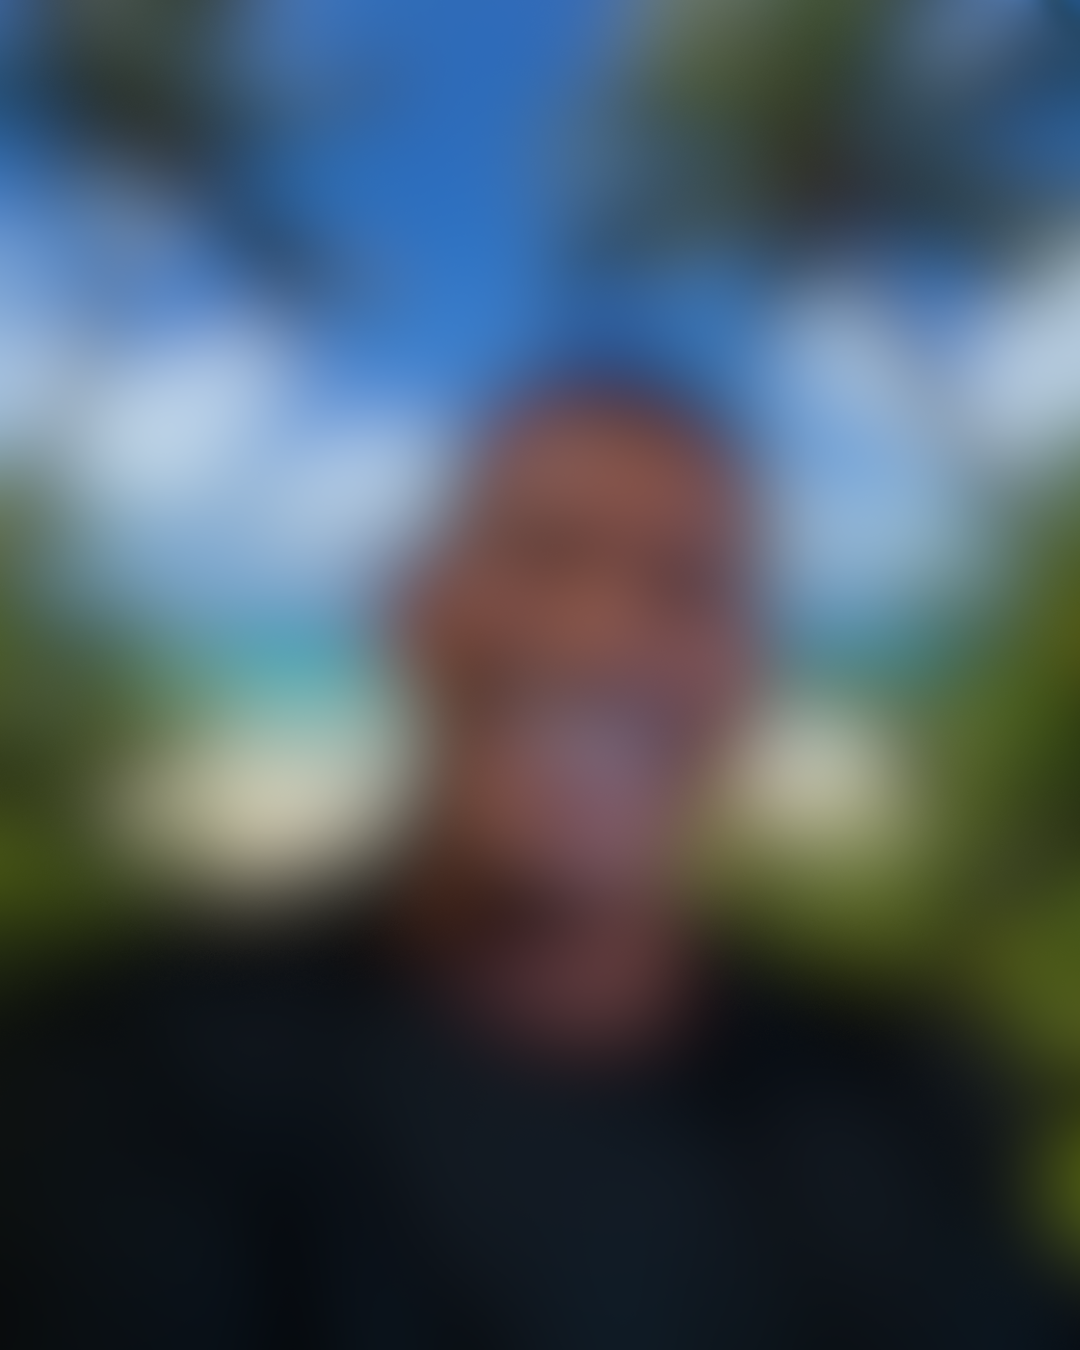
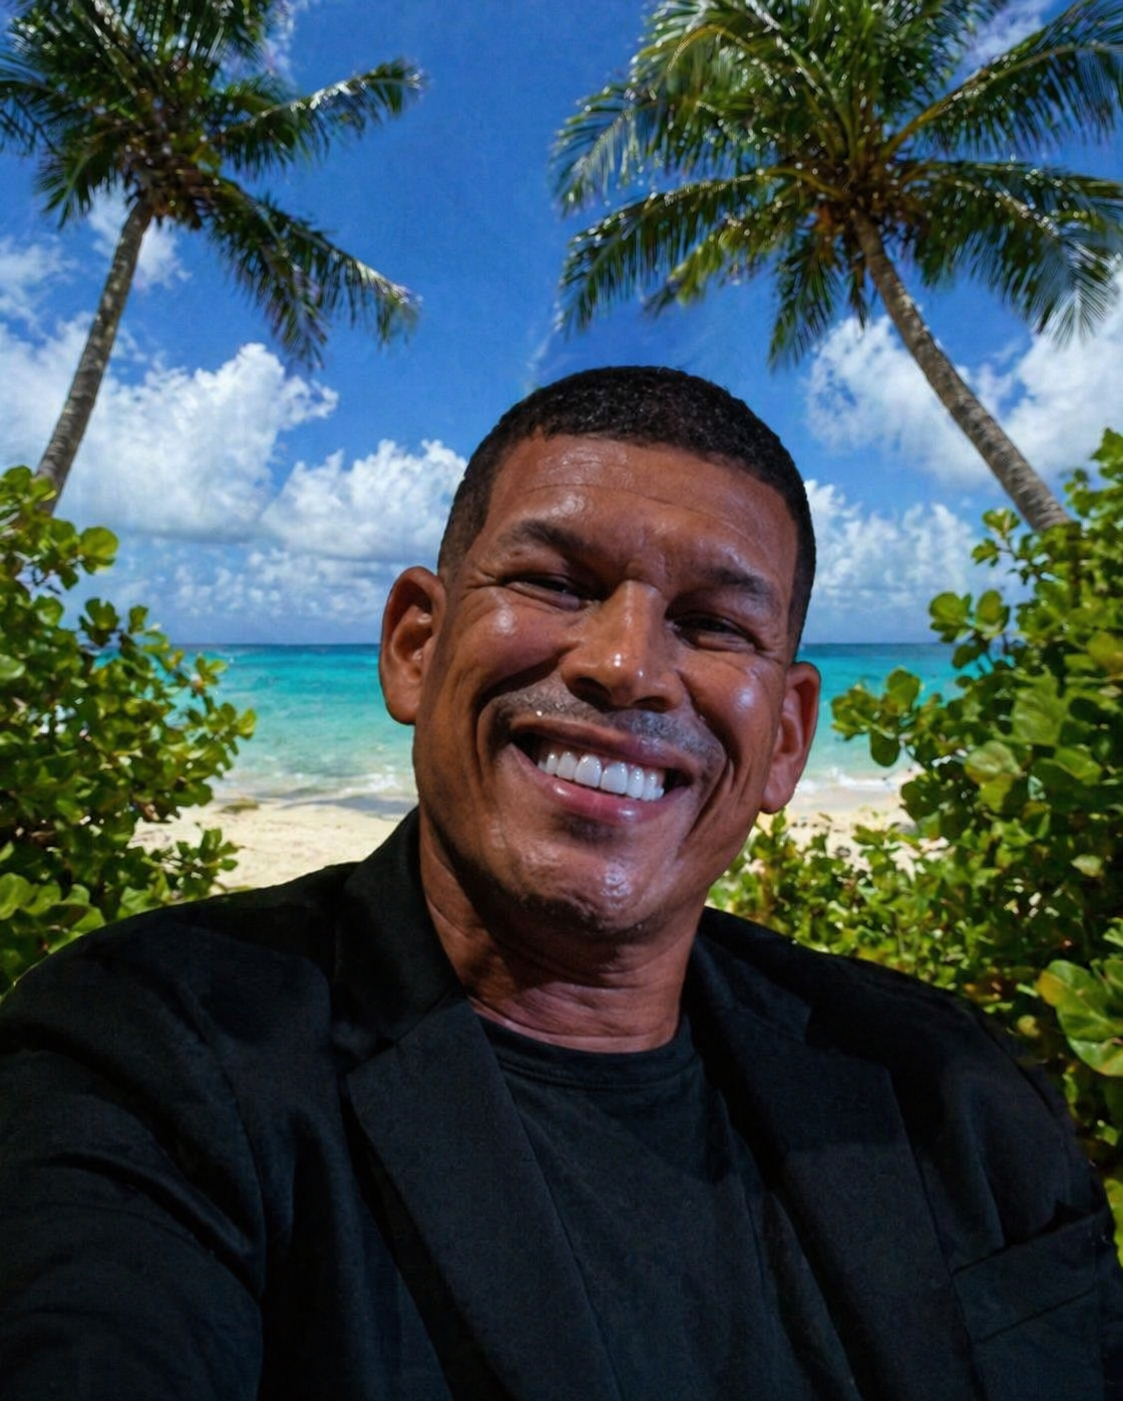
impacto social revelar categoria

diff --git a/categorias/index.html b/categorias/index.html
@@ -470,22 +470,8 @@
         <div class="cat-card">
             <div class="cat-card-img">
                 <img src="/assets/images/impacto.png" alt="Categoría 8" loading="lazy">
-                <div class="cat-card-lock">
-                    <div class="lock-icon">
-                        <svg viewBox="0 0 24 24" fill="none" stroke="currentColor" stroke-width="2" stroke-linecap="round" stroke-linejoin="round">
-                            <rect x="3" y="11" width="18" height="11" rx="2" ry="2"/>
-                            <path d="M7 11V7a5 5 0 0 1 10 0v4"/>
-                        </svg>
-                    </div>
-                </div>
             </div>
-            <p class="cat-card-title">Categoría sin desbloquear</p>
-            <span class="cat-card-badge">
-                <svg viewBox="0 0 24 24" fill="none" stroke="currentColor" stroke-width="2" stroke-linecap="round" stroke-linejoin="round">
-                    <circle cx="12" cy="12" r="10"/><polyline points="12 6 12 12 16 14"/>
-                </svg>
-                12 de mayo 6:00 PM
-            </span>
+            <p class="cat-card-title">Impacto Social</p>
         </div>
 
         <!-- Categoría 9 -->
